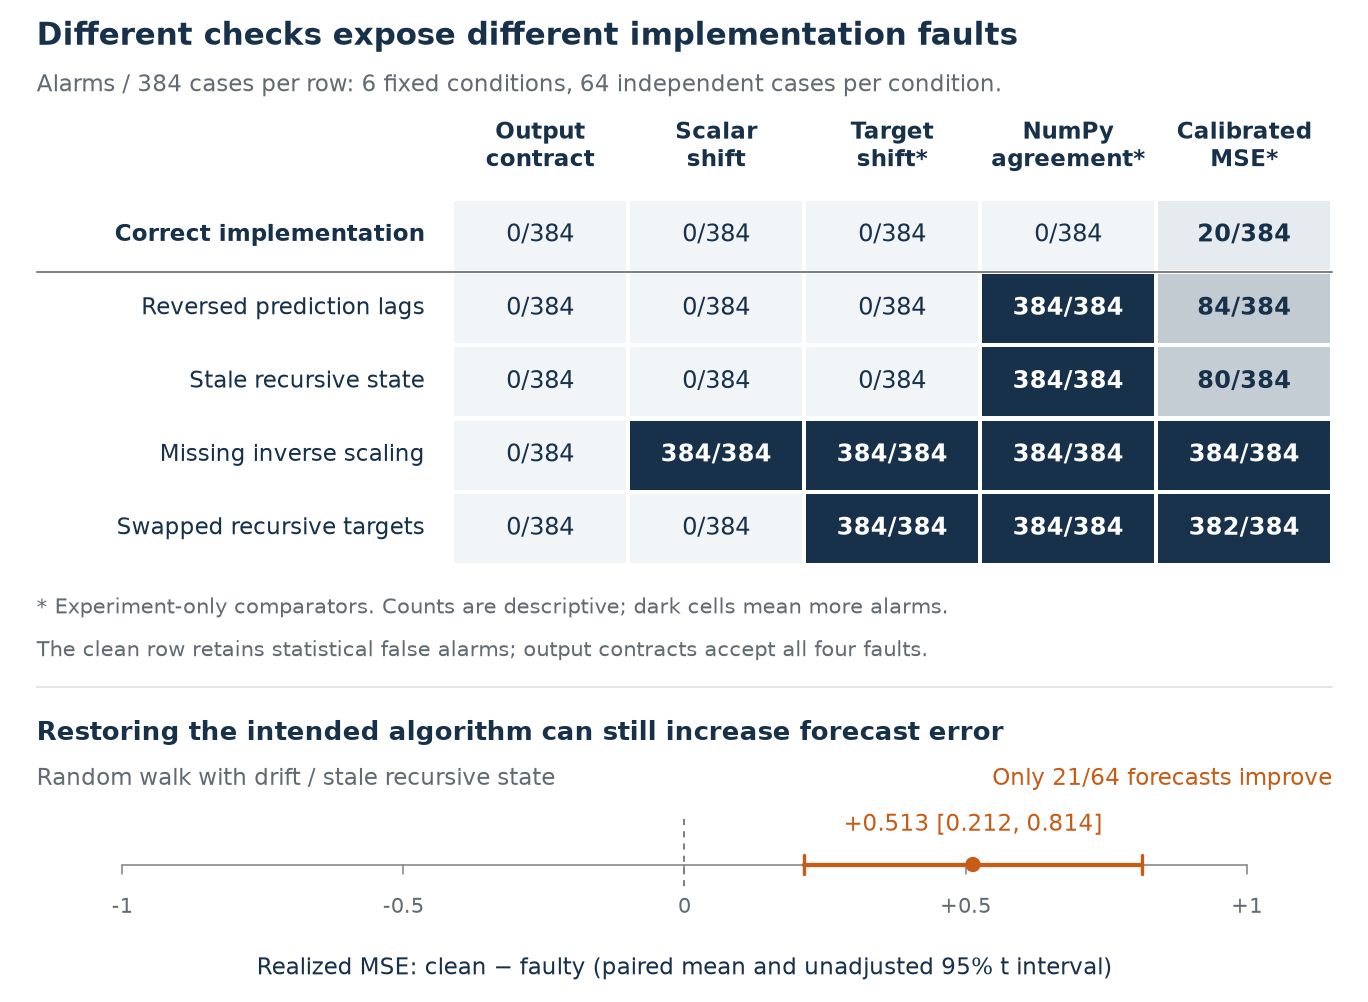
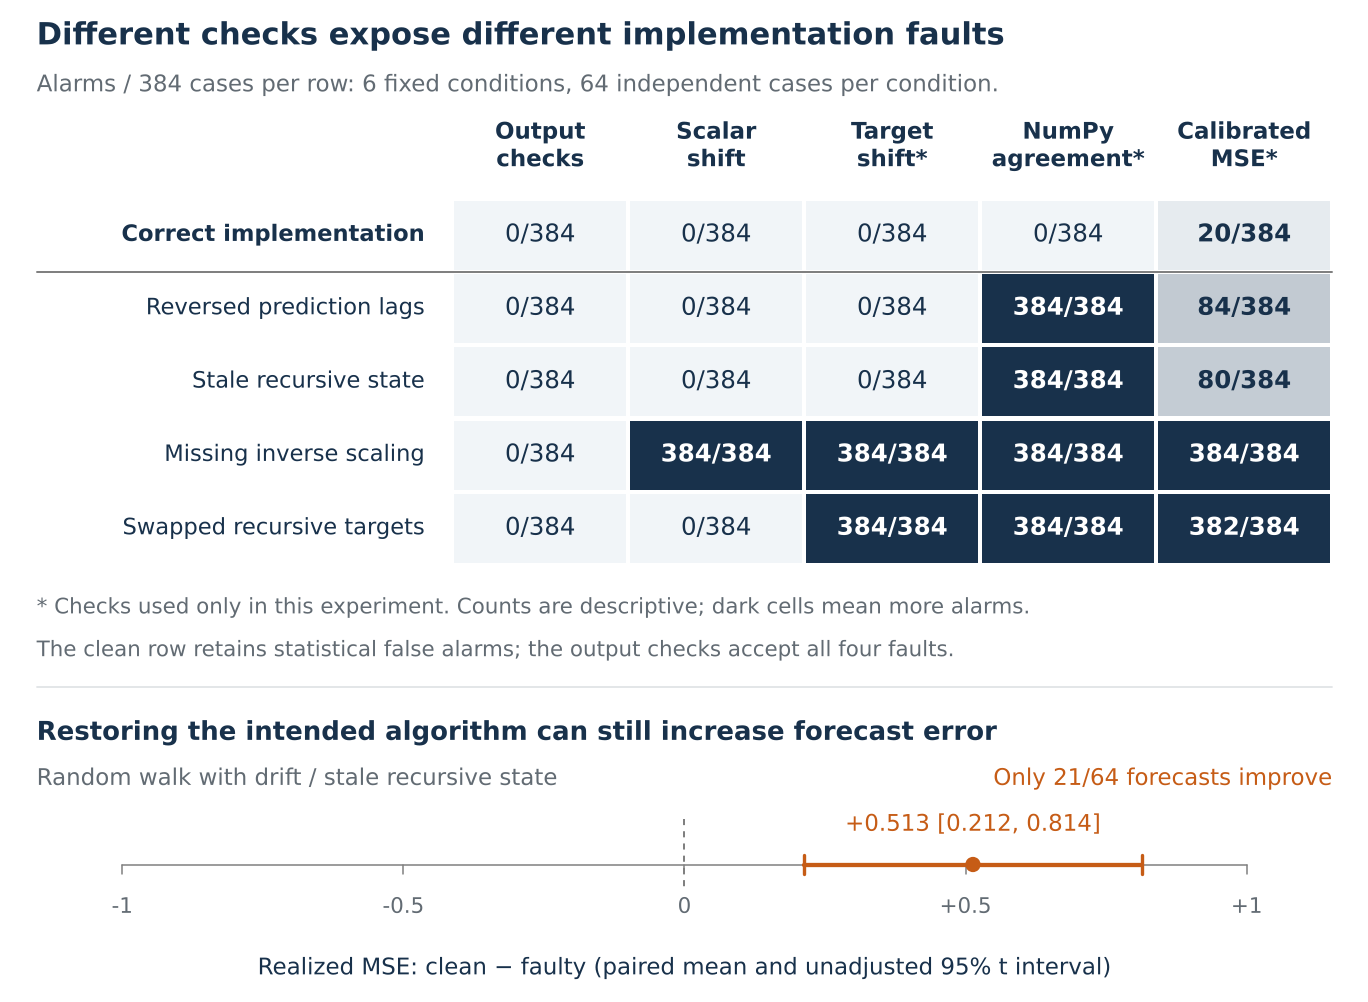
Use the plain check names in the fault-alarm figure
The drawn labels of Figure 3 now say output checks, as its caption and
the terms table do. Rendering the figure again also brings its
provenance record in line with the figure script, which already wrote
the clean-minus-faulty key.

diff --git a/paper/timegym.tex b/paper/timegym.tex
@@ -2284,7 +2284,7 @@ Repair improves MAE at every displayed origin, but the repaired historical mean 
 \node[anchor=west,inner sep=0pt,outer sep=0pt,text=tg18314b,font={\sffamily\fontsize{10bp}{12bp}\selectfont\bfseries}] at (12.000,12.000) {Different checks expose different implementation faults};
 \node[anchor=west,inner sep=0pt,outer sep=0pt,text=tg626b73,font={\sffamily\fontsize{7.5bp}{9bp}\selectfont}] at (12.000,28.000) {Alarms / 384 cases per row: 6 fixed conditions, 64 independent cases per condition.};
 \node[anchor=center,inner sep=0pt,outer sep=0pt,text=tg18314b,font={\sffamily\fontsize{7.5bp}{9bp}\selectfont\bfseries}] at (176.800,43.500) {Output};
-\node[anchor=center,inner sep=0pt,outer sep=0pt,text=tg18314b,font={\sffamily\fontsize{7.5bp}{9bp}\selectfont\bfseries}] at (176.800,52.500) {contract};
+\node[anchor=center,inner sep=0pt,outer sep=0pt,text=tg18314b,font={\sffamily\fontsize{7.5bp}{9bp}\selectfont\bfseries}] at (176.800,52.500) {checks};
 \node[anchor=center,inner sep=0pt,outer sep=0pt,text=tg18314b,font={\sffamily\fontsize{7.5bp}{9bp}\selectfont\bfseries}] at (234.400,43.500) {Scalar};
 \node[anchor=center,inner sep=0pt,outer sep=0pt,text=tg18314b,font={\sffamily\fontsize{7.5bp}{9bp}\selectfont\bfseries}] at (234.400,52.500) {shift};
 \node[anchor=center,inner sep=0pt,outer sep=0pt,text=tg18314b,font={\sffamily\fontsize{7.5bp}{9bp}\selectfont\bfseries}] at (292.000,43.500) {Target};
@@ -2349,8 +2349,8 @@ Repair improves MAE at every displayed origin, but the repaired historical mean 
 \path[fill=tg19324c,draw=none,line width=0.5bp] (379.100,161.700) rectangle (435.300,184.300);
 \node[anchor=center,inner sep=0pt,outer sep=0pt,text=tgffffff,font={\sffamily\fontsize{8bp}{9.6bp}\selectfont\bfseries}] at (407.200,173.000) {382/384};
 \draw[color=tg808080,line width=0.65bp,line cap=round] (12.000,89.000) -- (436.000,89.000);
-\node[anchor=west,inner sep=0pt,outer sep=0pt,text=tg626b73,font={\sffamily\fontsize{7bp}{8.4bp}\selectfont}] at (12.000,199.000) {* Experiment-only comparators. Counts are descriptive; dark cells mean more alarms.};
-\node[anchor=west,inner sep=0pt,outer sep=0pt,text=tg626b73,font={\sffamily\fontsize{7bp}{8.4bp}\selectfont}] at (12.000,213.000) {The clean row retains statistical false alarms; output contracts accept all four faults.};
+\node[anchor=west,inner sep=0pt,outer sep=0pt,text=tg626b73,font={\sffamily\fontsize{7bp}{8.4bp}\selectfont}] at (12.000,199.000) {* Checks used only in this experiment. Counts are descriptive; dark cells mean more alarms.};
+\node[anchor=west,inner sep=0pt,outer sep=0pt,text=tg626b73,font={\sffamily\fontsize{7bp}{8.4bp}\selectfont}] at (12.000,213.000) {The clean row retains statistical false alarms; the output checks accept all four faults.};
 \draw[color=tge1e4e7,line width=0.6bp,line cap=round] (12.000,225.000) -- (436.000,225.000);
 \node[anchor=west,inner sep=0pt,outer sep=0pt,text=tg18314b,font={\sffamily\fontsize{8.5bp}{10.2bp}\selectfont\bfseries}] at (12.000,240.000) {Restoring the intended algorithm can still increase forecast error};
 \node[anchor=west,inner sep=0pt,outer sep=0pt,text=tg626b73,font={\sffamily\fontsize{7.5bp}{9bp}\selectfont}] at (12.000,255.000) {Random walk with drift / stale recursive state};

diff --git a/paper/figure_evidence.py b/paper/figure_evidence.py
@@ -31,7 +31,7 @@ def build_ablation(root: Path):
         raise ValueError("Supplement result/protocol identity mismatch")
 
     checks = ["contract", "scalar_shift", "target_shift", "conformance", "loss"]
-    headers = ["Output\ncontract", "Scalar\nshift", "Target\nshift*", "NumPy\nagreement*", "Calibrated\nMSE*"]
+    headers = ["Output\nchecks", "Scalar\nshift", "Target\nshift*", "NumPy\nagreement*", "Calibrated\nMSE*"]
     labels = ["Correct implementation", "Reversed prediction lags", "Stale recursive state",
               "Missing inverse scaling", "Swapped recursive targets"]
     branches = ["clean", *protocol["model_study"]["faults"]]
@@ -80,9 +80,9 @@ def build_ablation(root: Path):
                         weight="bold" if count else "normal", align="center")
     for boundary in (1,):
         canvas.line(12, y0 + boundary * cell_h, 436, y0 + boundary * cell_h, color=GRAY, width=.65)
-    canvas.text(12, 199, "* Experiment-only comparators. Counts are descriptive; dark cells mean more alarms.",
+    canvas.text(12, 199, "* Checks used only in this experiment. Counts are descriptive; dark cells mean more alarms.",
                 size=7, color=MUTED)
-    canvas.text(12, 213, "The clean row retains statistical false alarms; output contracts accept all four faults.",
+    canvas.text(12, 213, "The clean row retains statistical false alarms; the output checks accept all four faults.",
                 size=7, color=MUTED)
     canvas.line(12, 225, 436, 225, color=GRID, width=.6)
 
